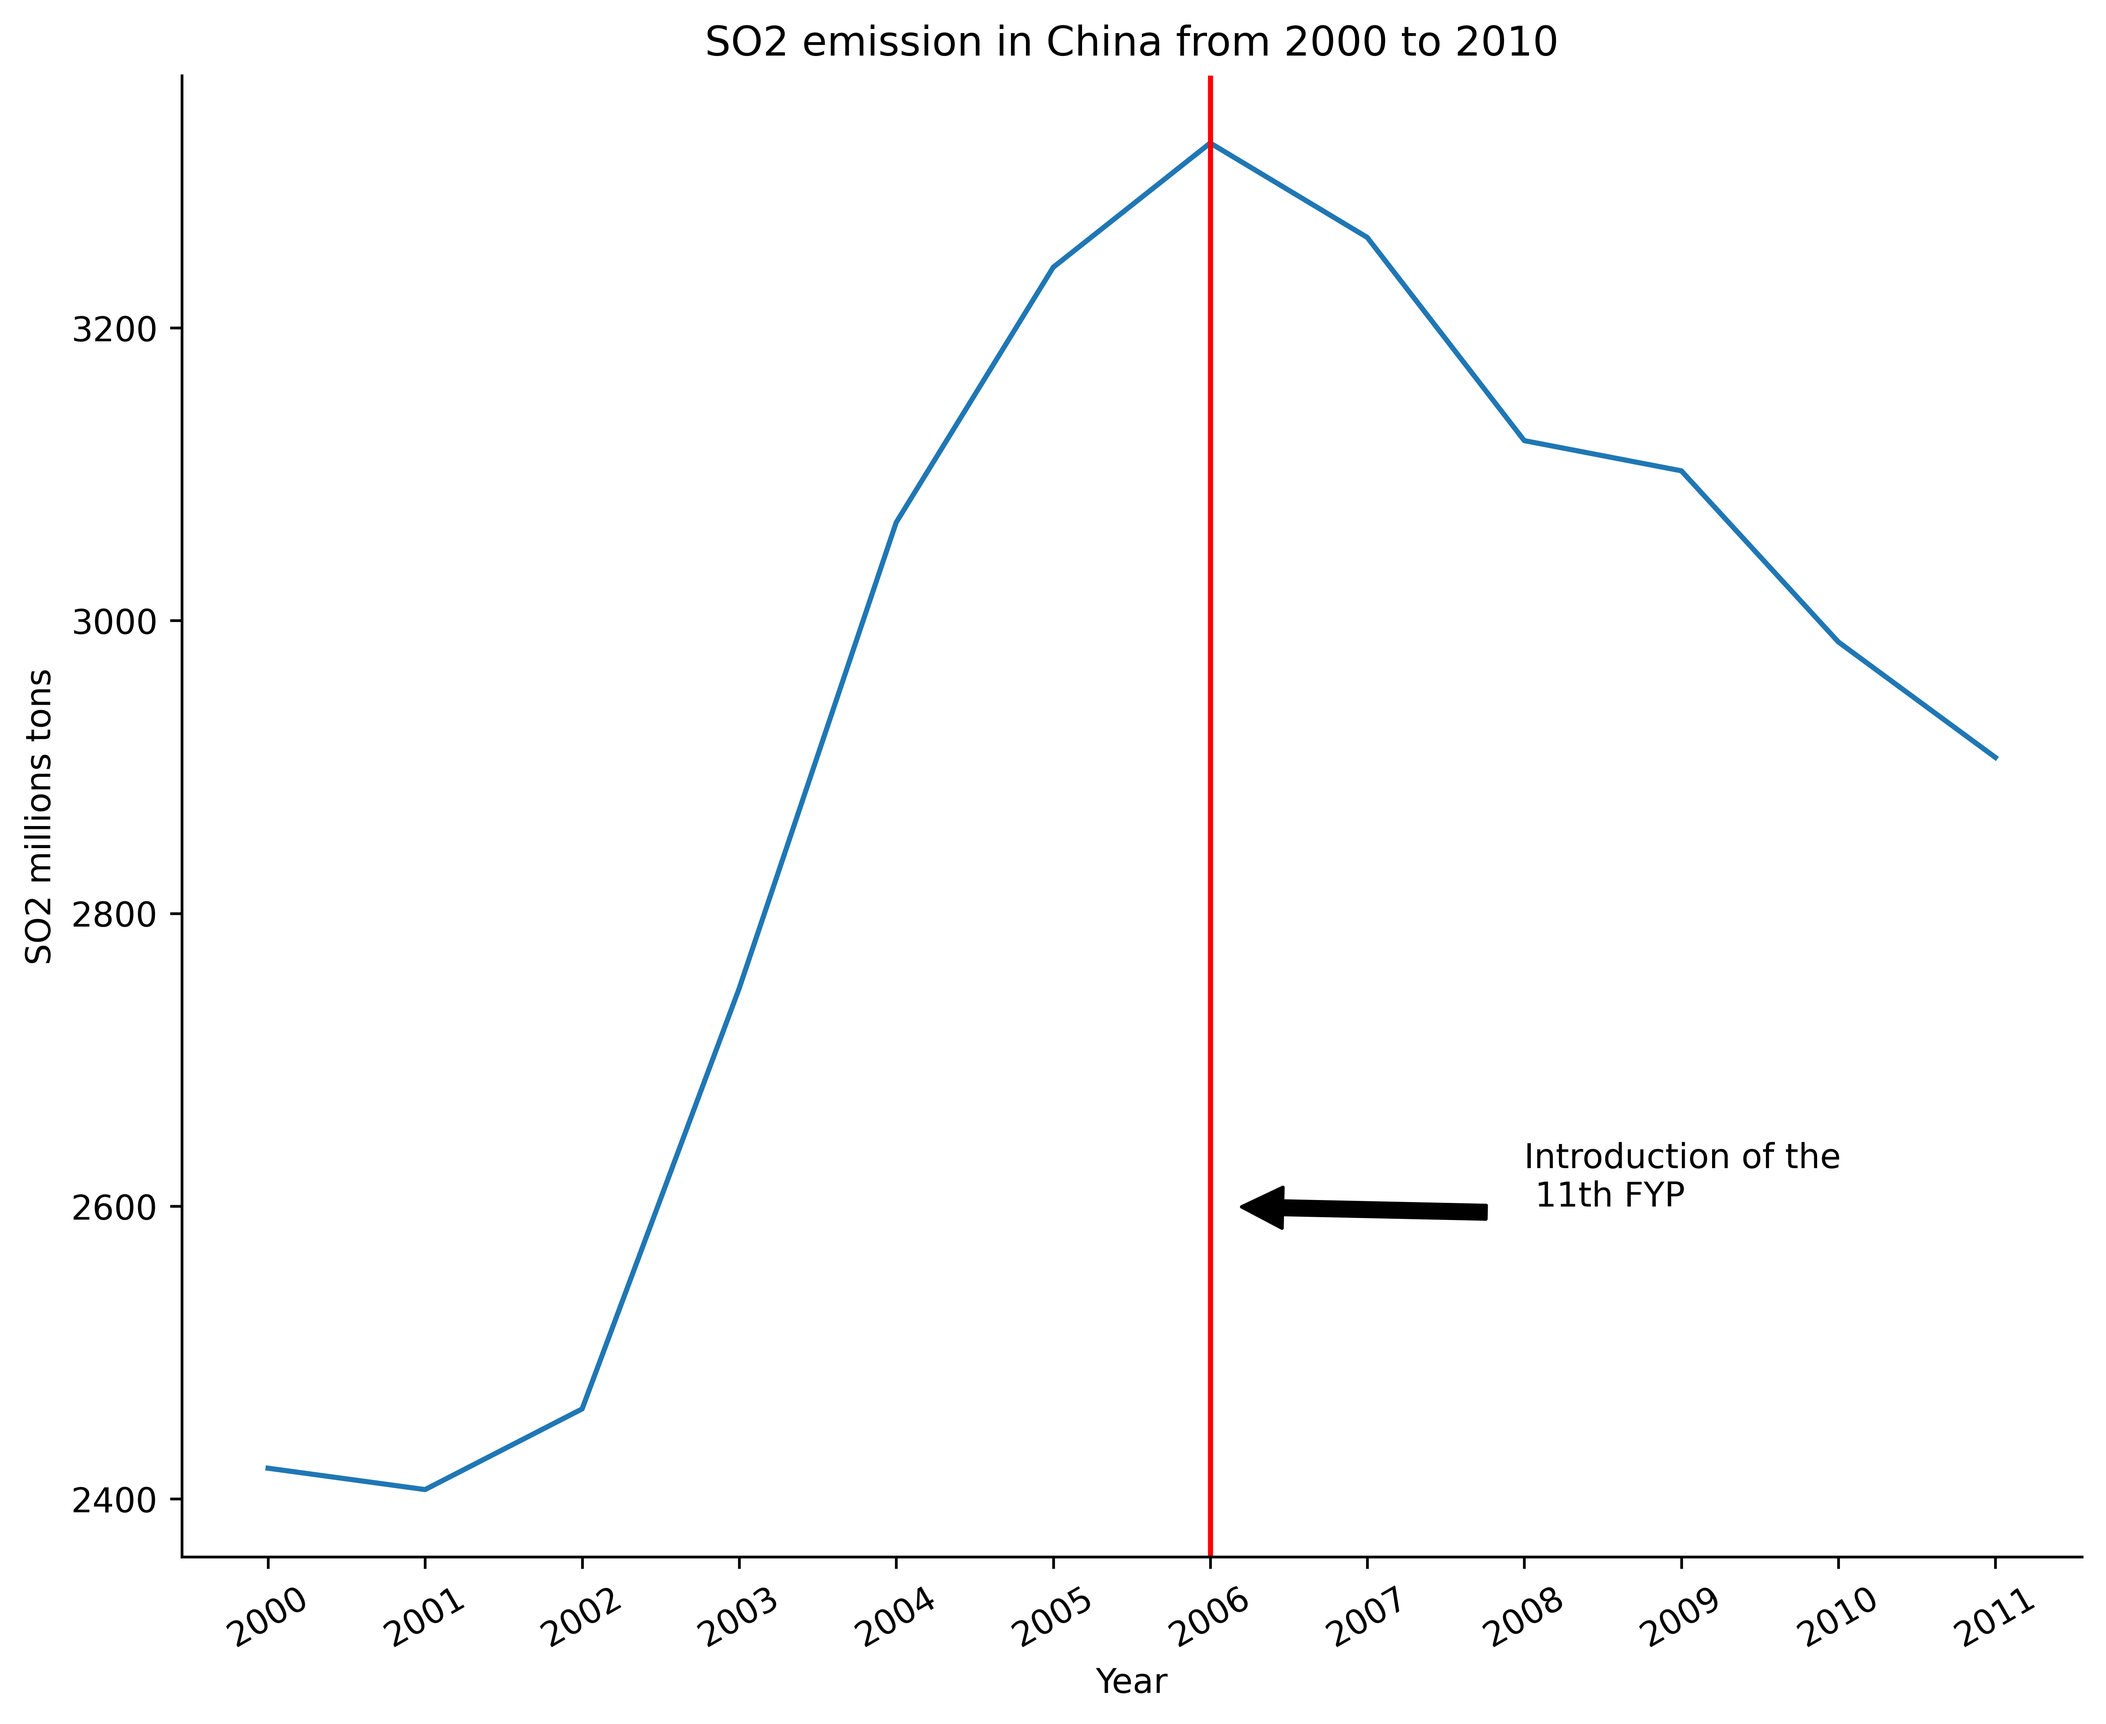
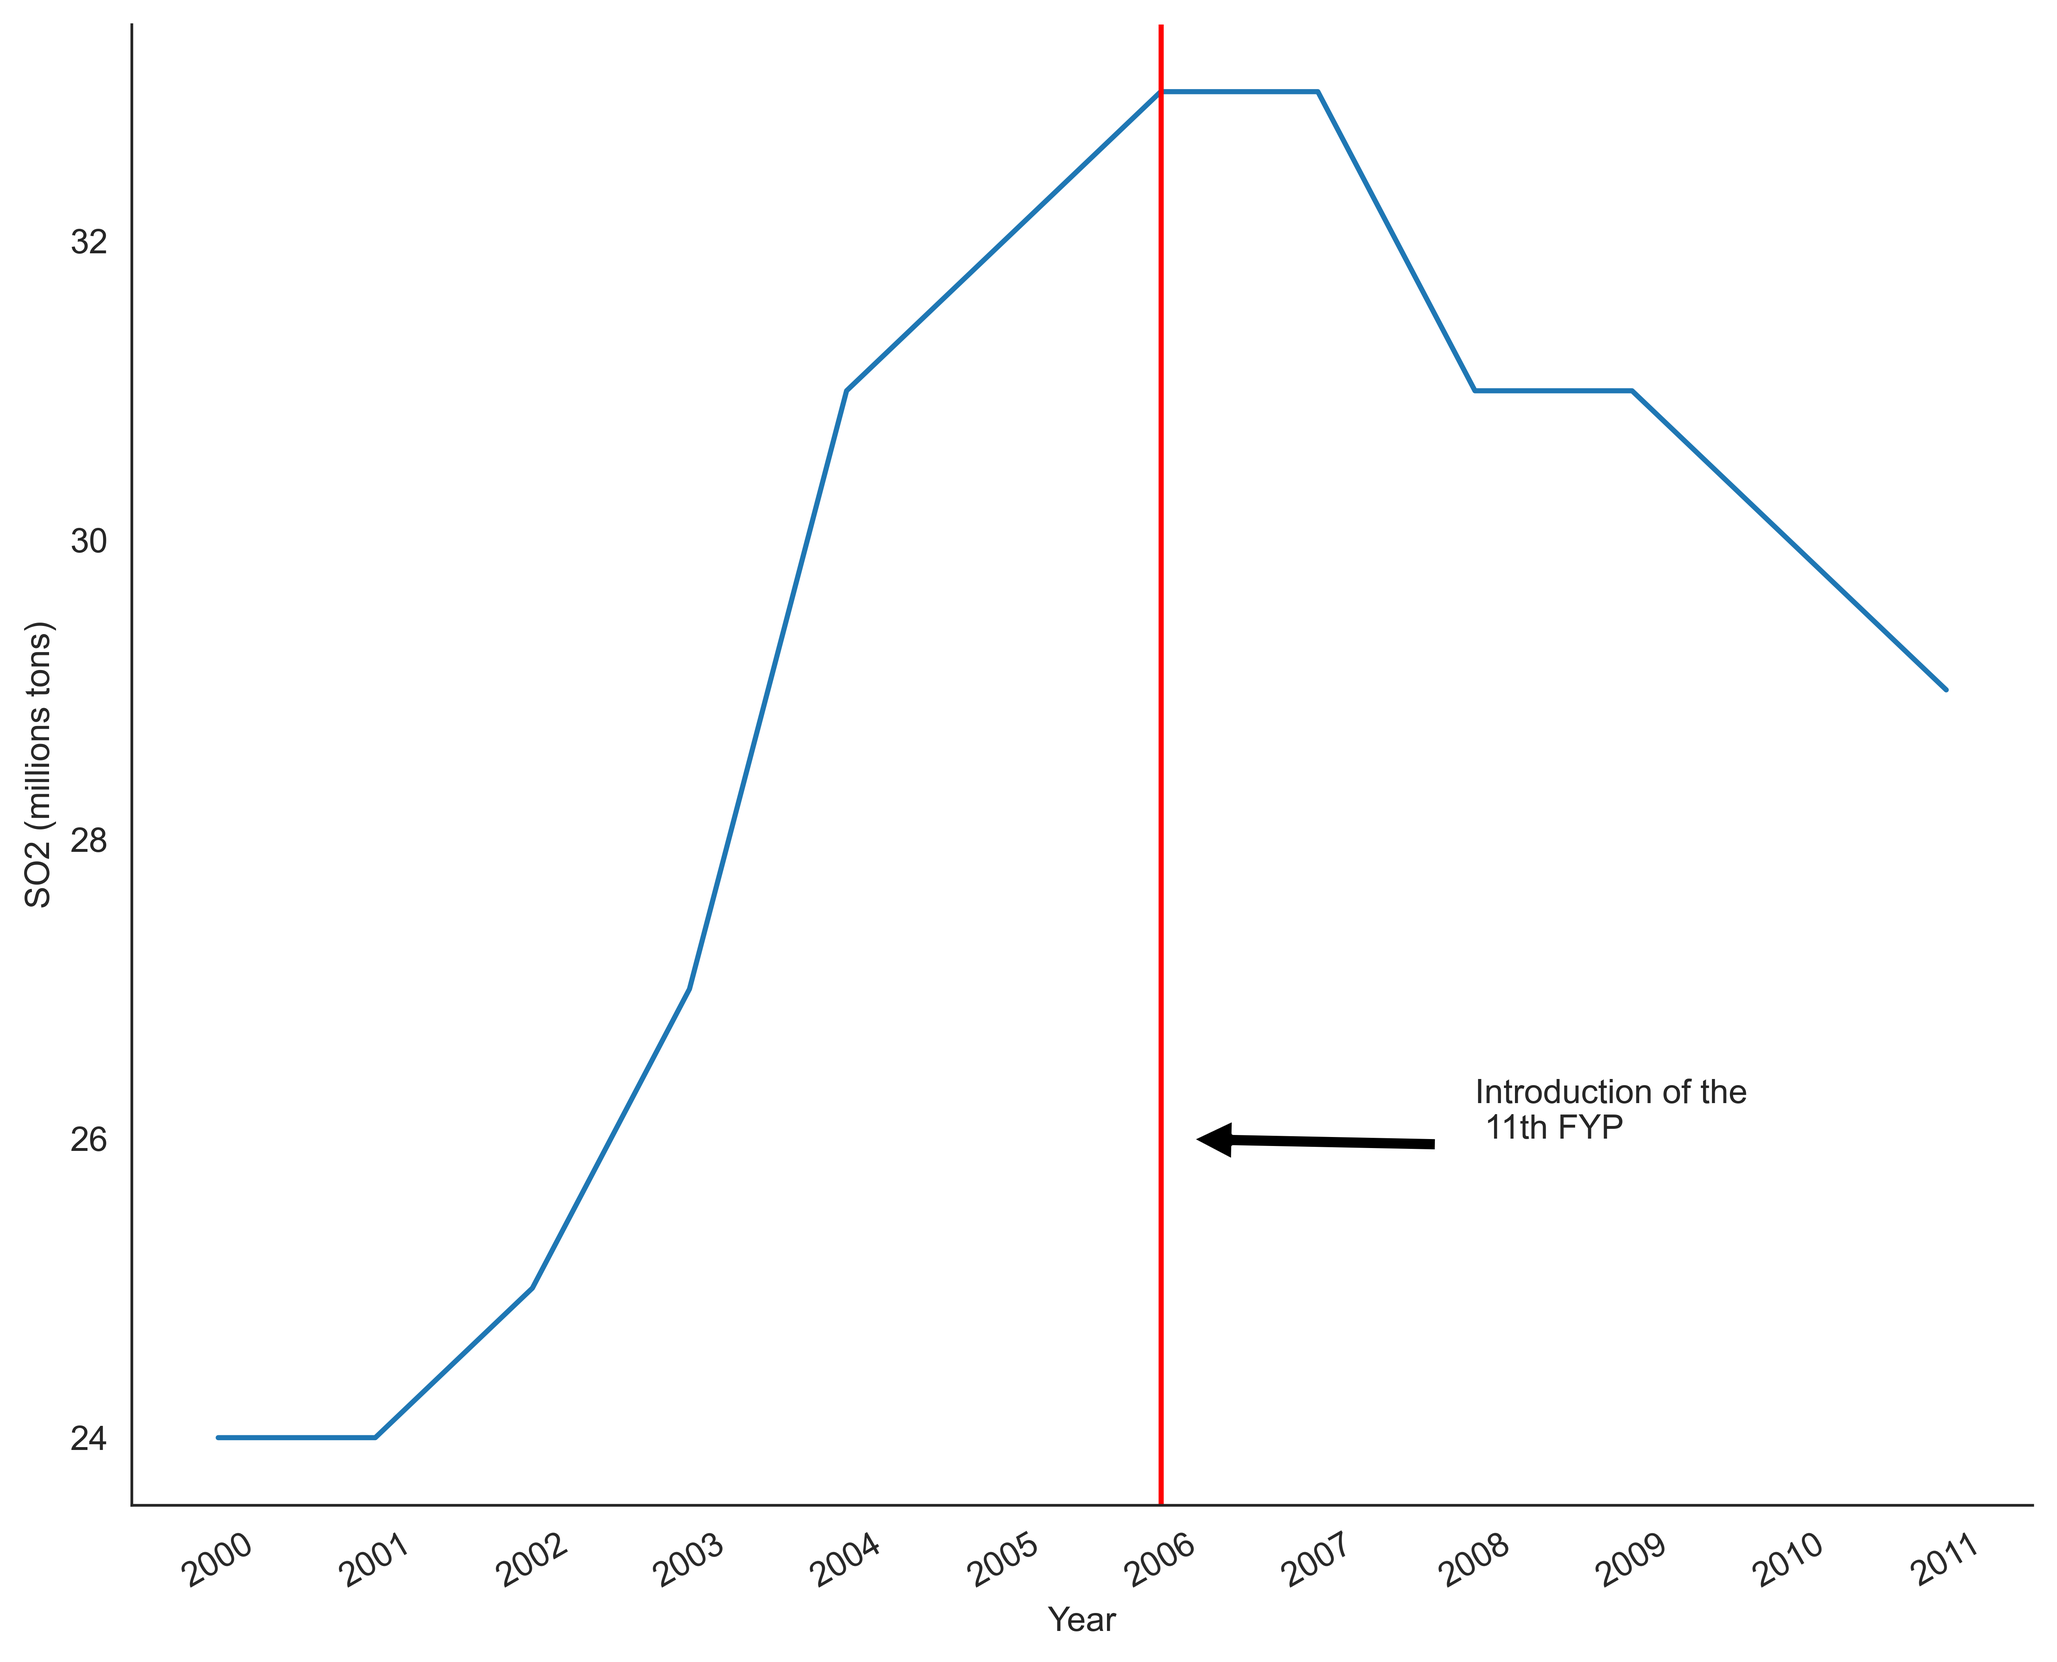
correct axis and add size
272_Financial_dependency_pollution

diff --git a/02_data_analysis/00_statistical_exploration/00_asset_tangibility_tfp.md b/02_data_analysis/00_statistical_exploration/00_asset_tangibility_tfp.md
@@ -376,9 +376,10 @@ var = (
         sheetName=sheetName,
         to_dataframe=True)
     .assign(
-    so2 = lambda x: pd.to_numeric(x['SO2(10.000 tons)'])
+    so2 = lambda x: (pd.to_numeric(x['SO2(10.000 tons)'])/100).round(0).astype(int)
     )
 )
+var
 ```
 
 ```python
@@ -387,18 +388,19 @@ ax.plot(var['Year'], var['so2'])
 ax.axvline(x='2006', c='red')
 ax.spines['right'].set_visible(False)
 ax.spines['top'].set_visible(False)
-ax.annotate('Introduction of the\n 11th FYP', xy=('2006', 2600), xytext=('2008', 2600),
+ax.annotate('Introduction of the\n 11th FYP', xy=('2006', 26), xytext=('2008', 26),
             arrowprops=dict(facecolor='black', shrink=0.1),
             )
 plt.xlabel('Year')
 # Set y-axis label
-plt.ylabel('SO2 millions tons')
+plt.ylabel('SO2 (millions tons)')
 plt.xticks(rotation=30)
-plt.title('SO2 emission in China from 2000 to 2010')
+#plt.title('SO2 emission in China from 2000 to 2010')
 #plt.show()
 plt.savefig("Figures/FIGURE_1.png",
             bbox_inches='tight',
-            dpi=600)
+            dpi=600
+           )
 ```
 
 <!-- #region kernel="SoS" -->
@@ -487,6 +489,8 @@ chart.map(plt.axhline, y=0, ls='--', c='red')
 chart.set_titles("{col_name}")
 chart._legend.set_title("Locations")
 chart.set_axis_labels(x_var="Year", y_var="Percentage change SO2")
+chart.fig.set_figwidth(10)
+chart.fig.set_figheight(8)
 
 plt.savefig("Figures/FIGURE_2.png",
             bbox_inches='tight',
@@ -498,11 +502,13 @@ plt.savefig("Figures/FIGURE_2.png",
 ```python kernel="SoS"
 sns.set_style("white")
     ### plot 1
-sns.lmplot(x="log_asset_tangibility_tot_asset",
+chart = sns.lmplot(x="log_asset_tangibility_tot_asset",
            y="log_tso2",
            data=df.loc[lambda x: 
                       x['log_asset_tangibility_tot_asset'] > -4]
           )
+chart.fig.set_figwidth(10)
+chart.fig.set_figheight(8)
 plt.xlabel("log Asset tangibility")
 plt.ylabel('log SO2 emissions')
 plt.savefig("Figures/FIGURE_3.png",
